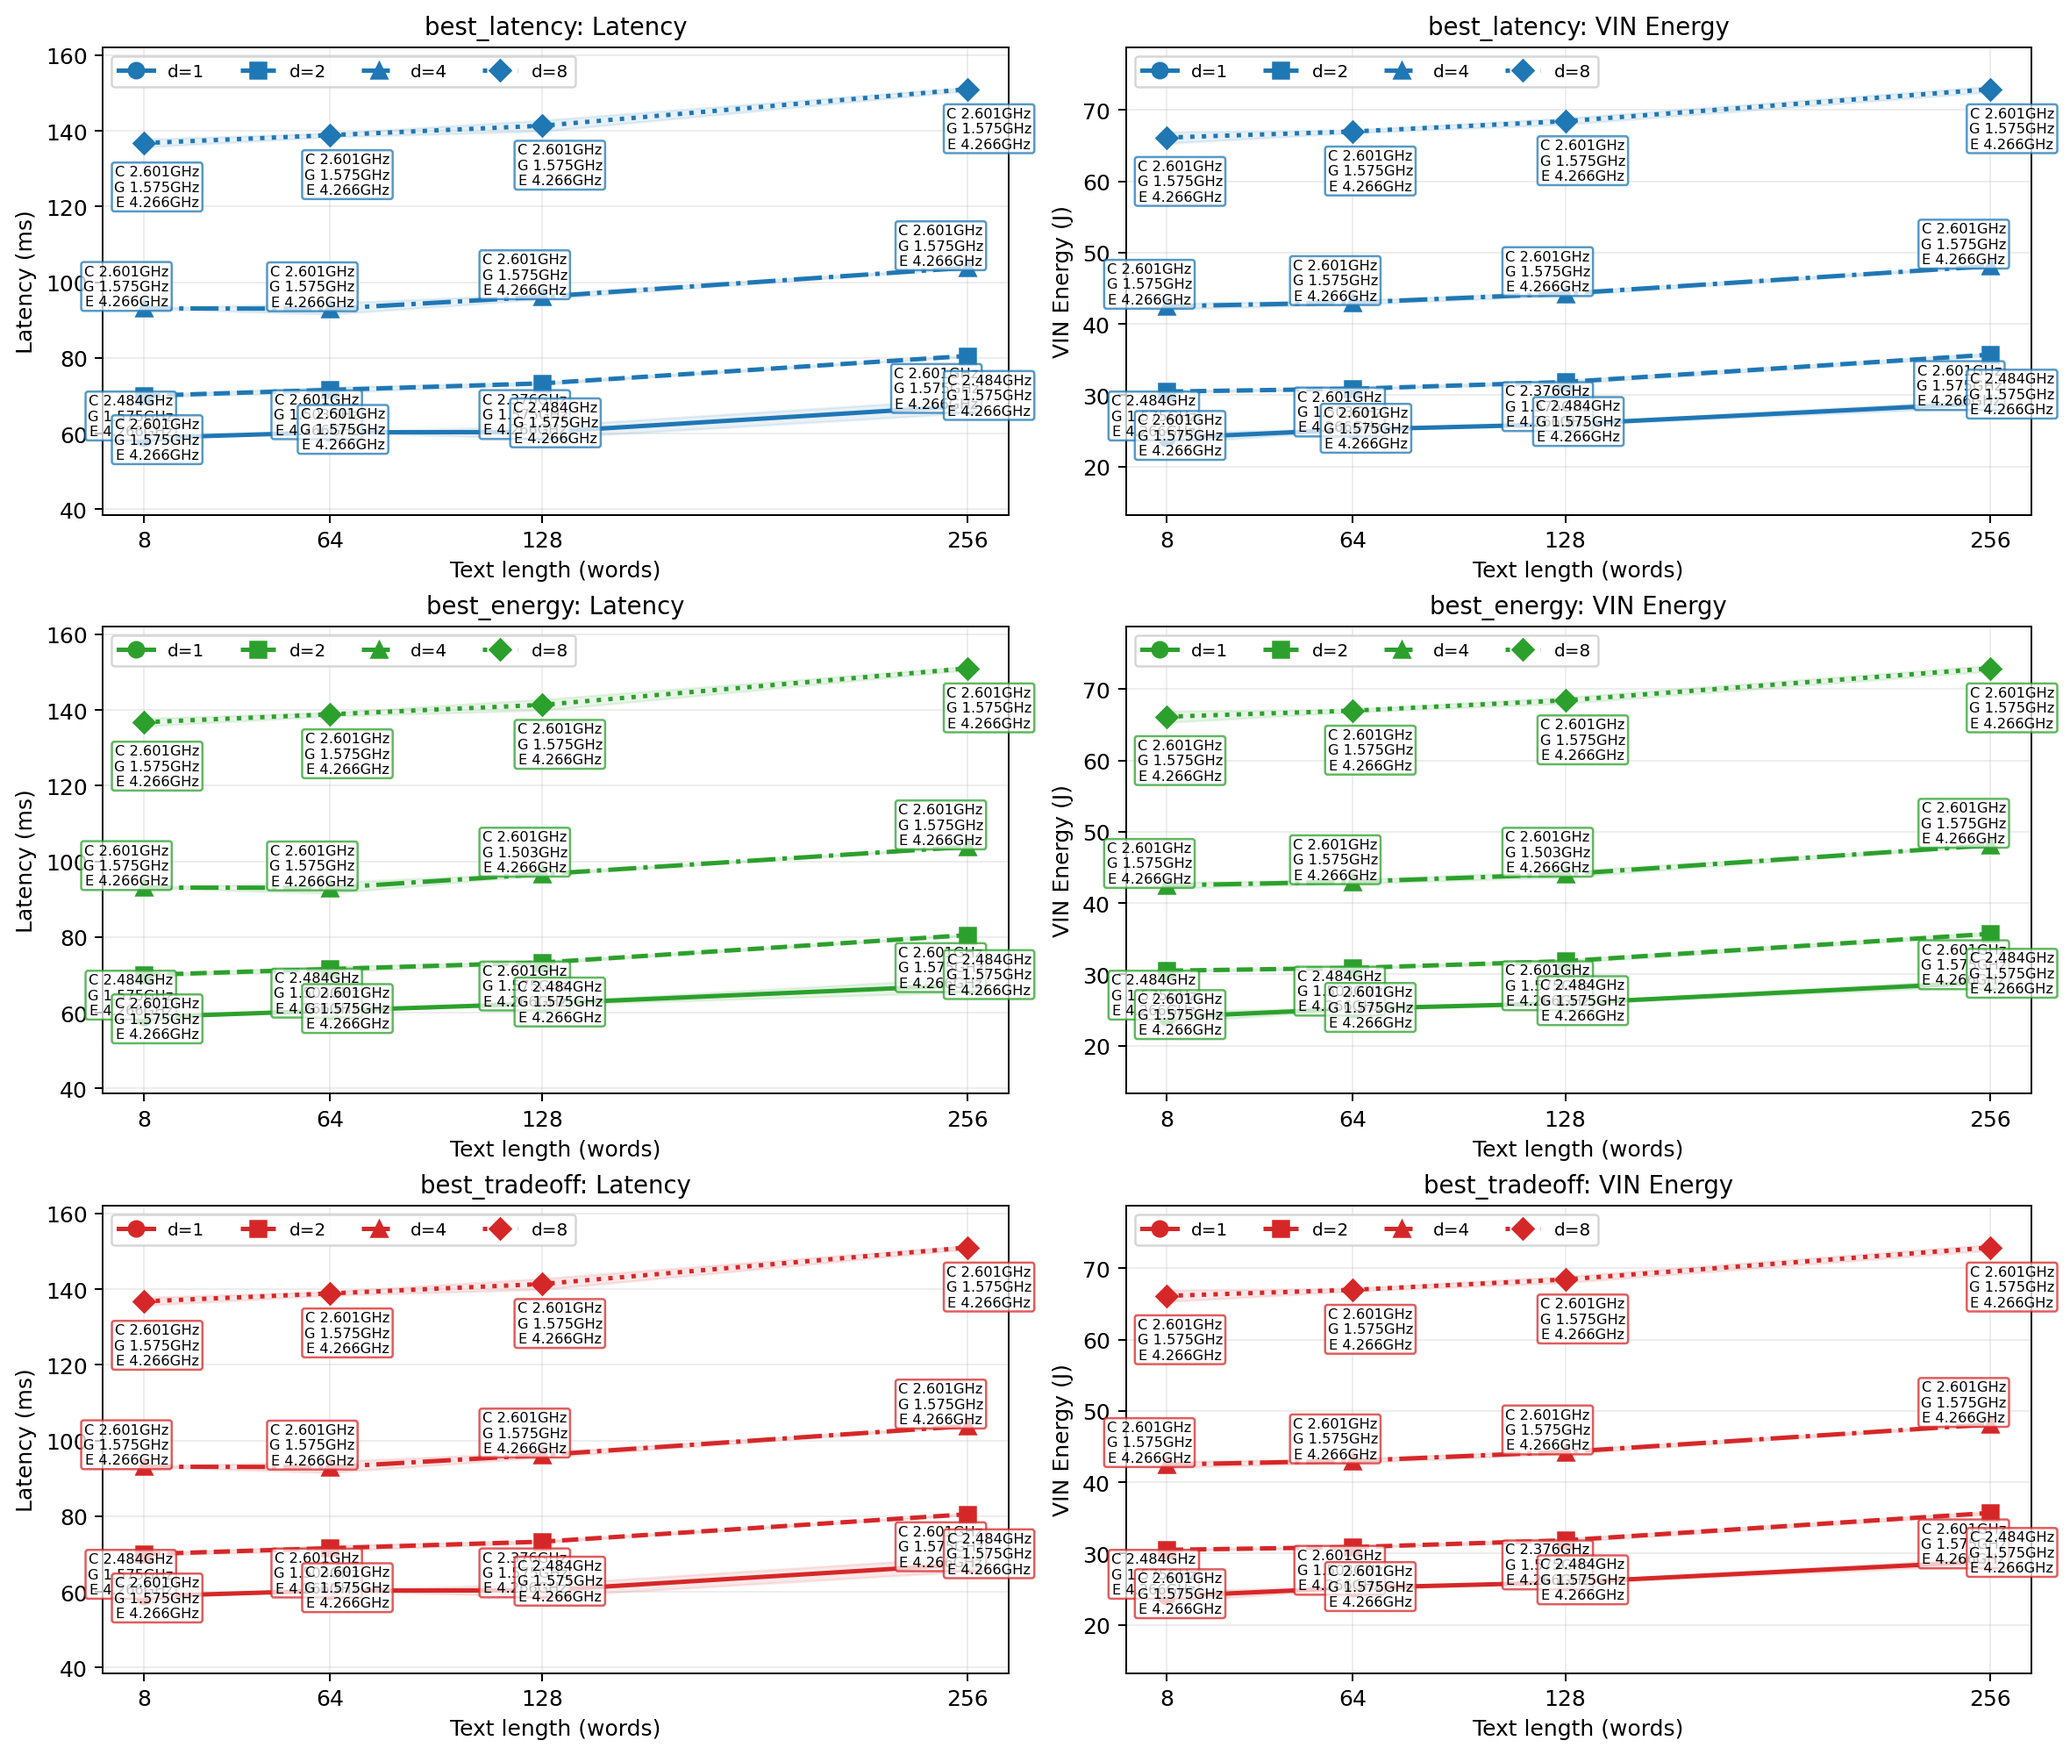
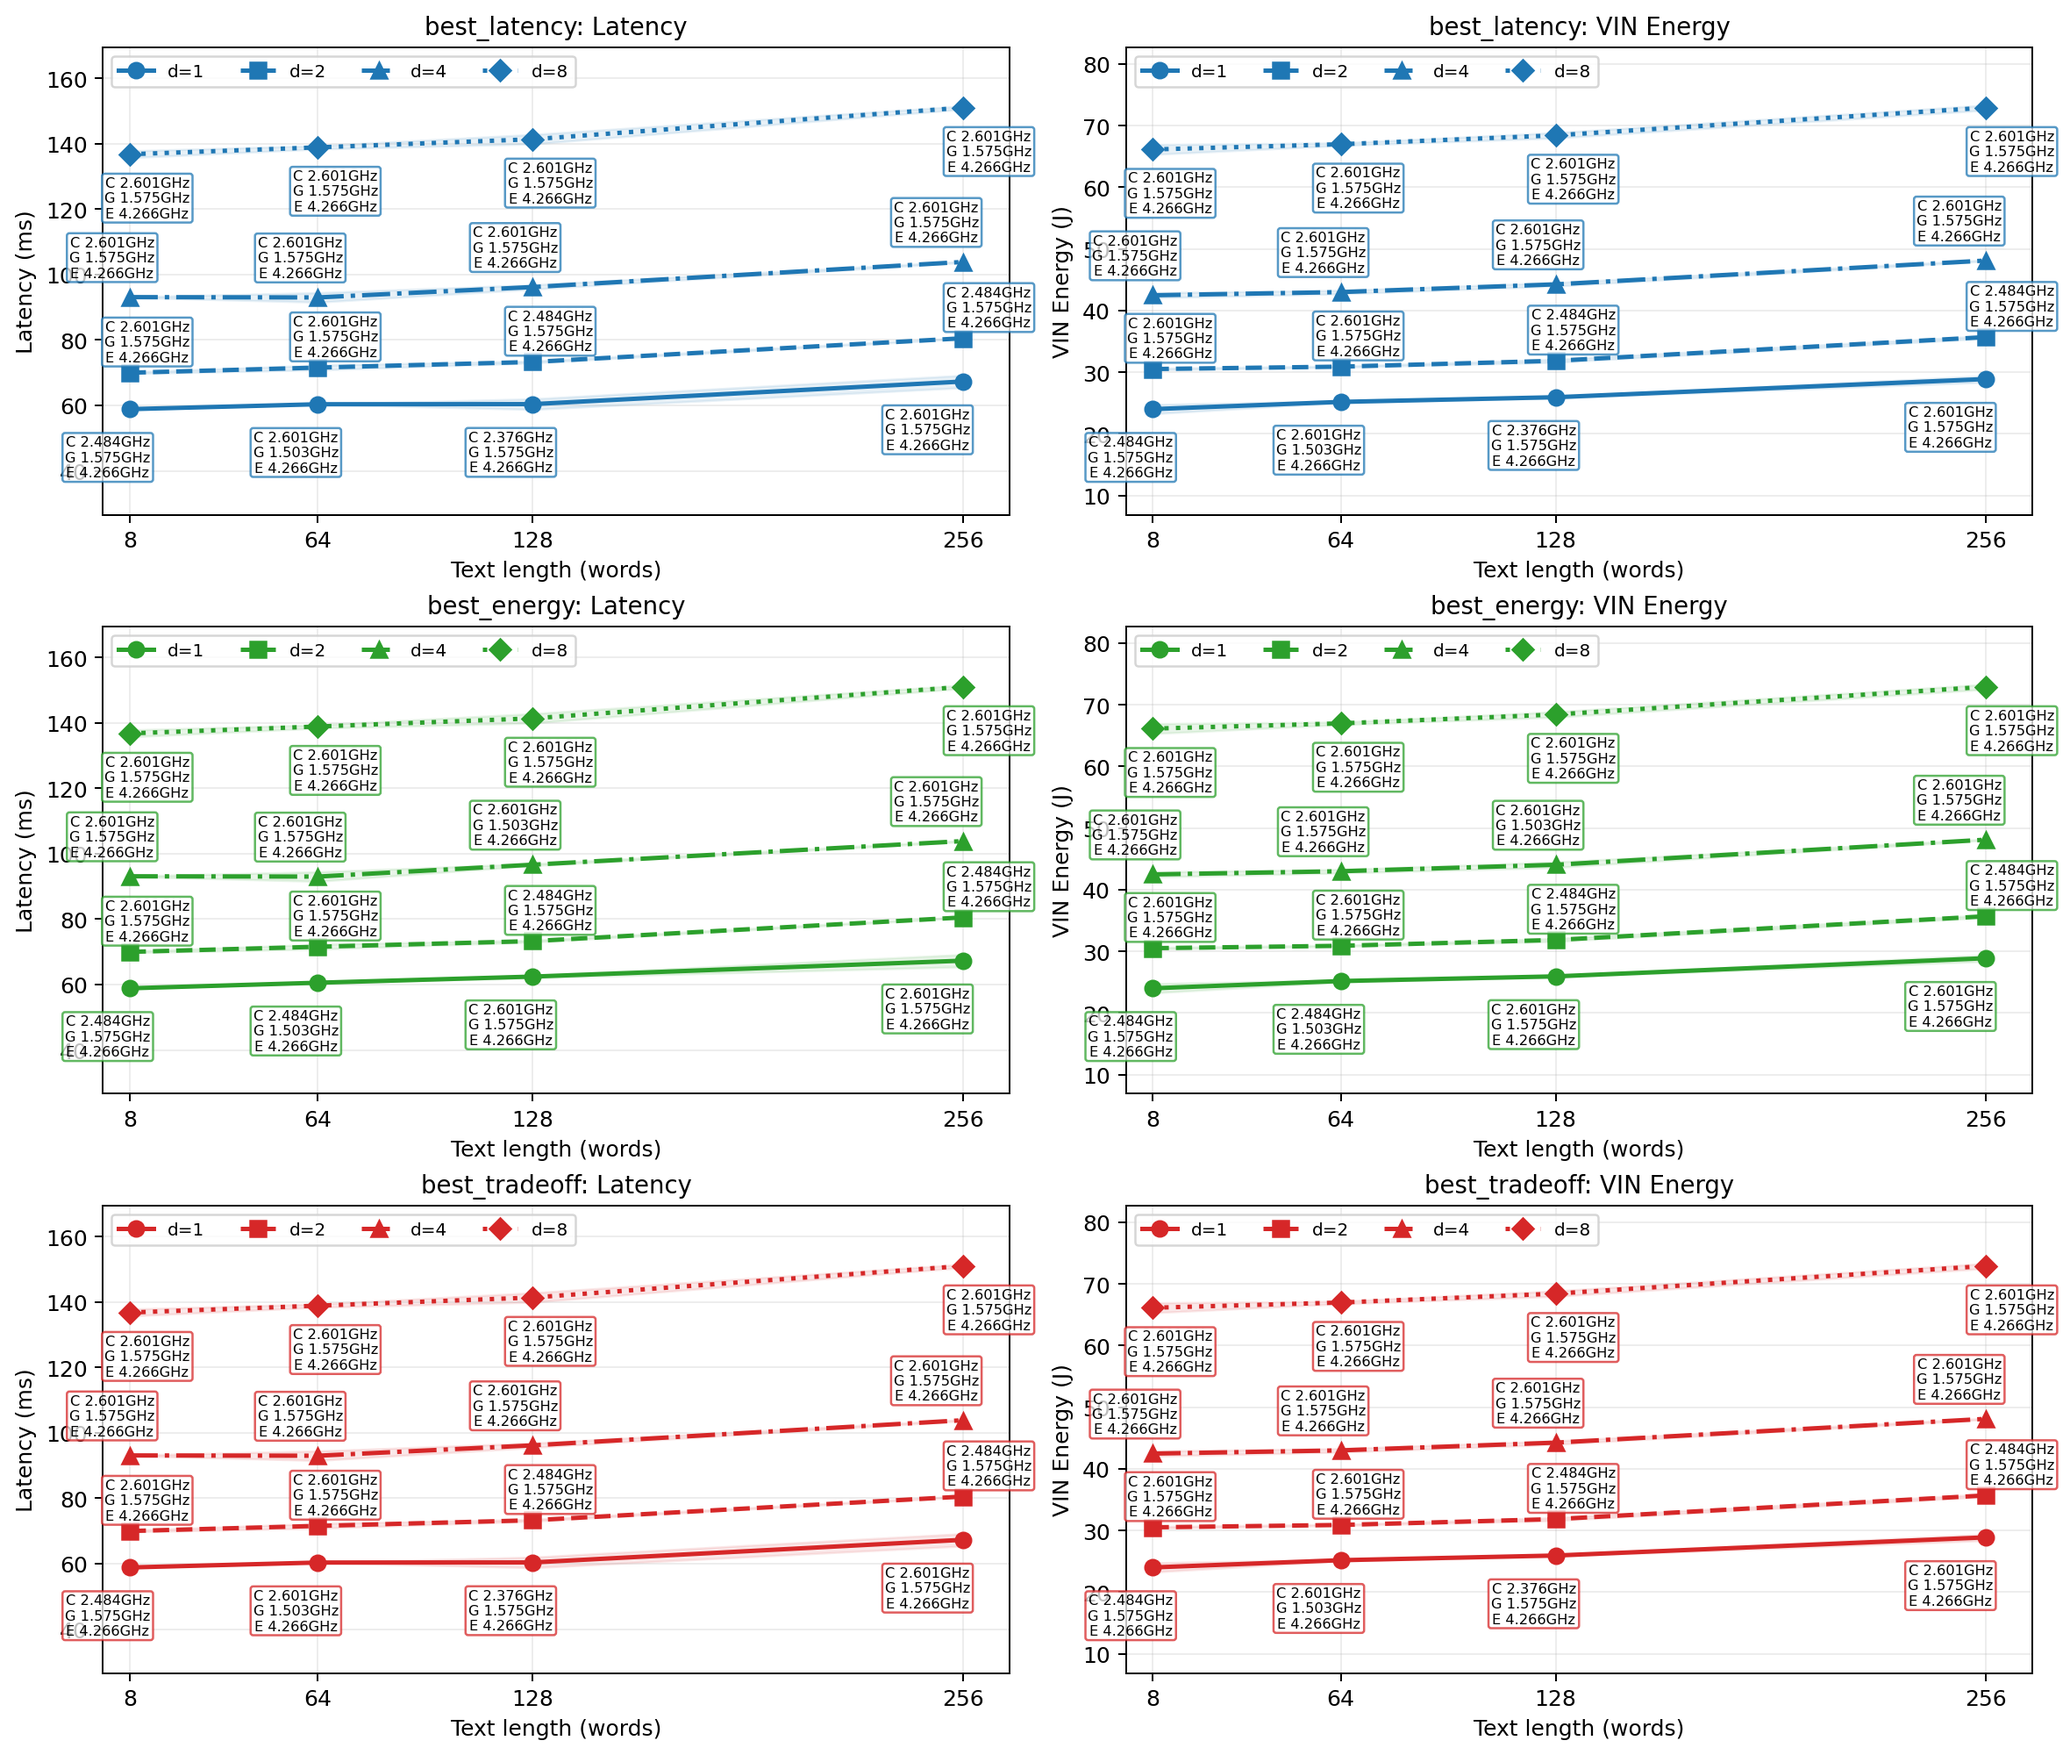
Adjust dense control figure labels

diff --git a/regenerated_artifacts_20260507/control_text_and_view_dense_paper/make_annotated_dense_figures.py b/regenerated_artifacts_20260507/control_text_and_view_dense_paper/make_annotated_dense_figures.py
@@ -42,19 +42,13 @@ def save_all(fig: plt.Figure, out_path: Path) -> None:
 def make_text_annotated(df: pd.DataFrame, out_path: Path) -> None:
     fig, axes = plt.subplots(3, 2, figsize=(13, 11), constrained_layout=True)
 
+    # Separate the annotation boxes by denoising layer. The lines are close for
+    # d=1 and d=2, so small symmetric offsets make the labels collide.
     offsets = {
-        ("best_latency", 1): [(-6, 10), (-6, 8), (-8, 8), (-14, 8)],
-        ("best_latency", 2): [(6, -20), (6, -18), (6, -18), (10, -18)],
-        ("best_latency", 4): [(-8, 10), (-8, 10), (-8, 10), (-12, 10)],
-        ("best_latency", 8): [(6, -20), (8, -18), (8, -18), (10, -18)],
-        ("best_energy", 1): [(-6, 10), (-6, 8), (-8, 8), (-12, 8)],
-        ("best_energy", 2): [(6, -20), (8, -18), (8, -18), (10, -18)],
-        ("best_energy", 4): [(-8, 10), (-8, 10), (-8, 10), (-12, 10)],
-        ("best_energy", 8): [(6, -20), (8, -18), (8, -18), (10, -18)],
-        ("best_tradeoff", 1): [(-6, 10), (-6, 8), (-8, 8), (-12, 8)],
-        ("best_tradeoff", 2): [(6, -20), (8, -18), (8, -18), (10, -18)],
-        ("best_tradeoff", 4): [(-8, 10), (-8, 10), (-8, 10), (-12, 10)],
-        ("best_tradeoff", 8): [(6, -20), (8, -18), (8, -18), (10, -18)],
+        1: [(-10, -22), (-10, -22), (-10, -22), (-16, -22)],
+        2: [(8, 14), (8, 14), (8, 14), (12, 14)],
+        4: [(-8, 18), (-8, 18), (-8, 18), (-12, 18)],
+        8: [(8, -20), (8, -20), (8, -20), (12, -20)],
     }
 
     for r, selection in enumerate(SELECTIONS):
@@ -86,7 +80,7 @@ def make_text_annotated(df: pd.DataFrame, out_path: Path) -> None:
                 for i, (_, row) in enumerate(dsub.iterrows()):
                     if pd.isna(row[metric_mean]):
                         continue
-                    dx, dy = offsets[(selection, denoise)][i]
+                    dx, dy = offsets[denoise][i]
                     ax.annotate(
                         fmt_freq(row),
                         xy=(TEXT_X[i], row[metric_mean]),
@@ -99,12 +93,13 @@ def make_text_annotated(df: pd.DataFrame, out_path: Path) -> None:
                     )
             if all_y:
                 ymin, ymax = min(all_y), max(all_y)
-                pad_low = (ymax - ymin) * 0.22 if ymax > ymin else ymax * 0.08
-                pad_high = (ymax - ymin) * 0.12 if ymax > ymin else ymax * 0.08
+                pad_low = (ymax - ymin) * 0.35 if ymax > ymin else ymax * 0.12
+                pad_high = (ymax - ymin) * 0.20 if ymax > ymin else ymax * 0.12
                 ax.set_ylim(ymin - pad_low, ymax + pad_high)
             ax.set_title(f"{selection}: {suffix}", fontsize=11)
             ax.set_xlabel("Text length (words)")
             ax.set_ylabel(ylabel)
+            ax.set_xlim(0, 270)
             ax.set_xticks(TEXT_X)
             ax.grid(True, alpha=0.22)
             ax.legend(loc="upper left", ncol=4, frameon=True, fontsize=8)
